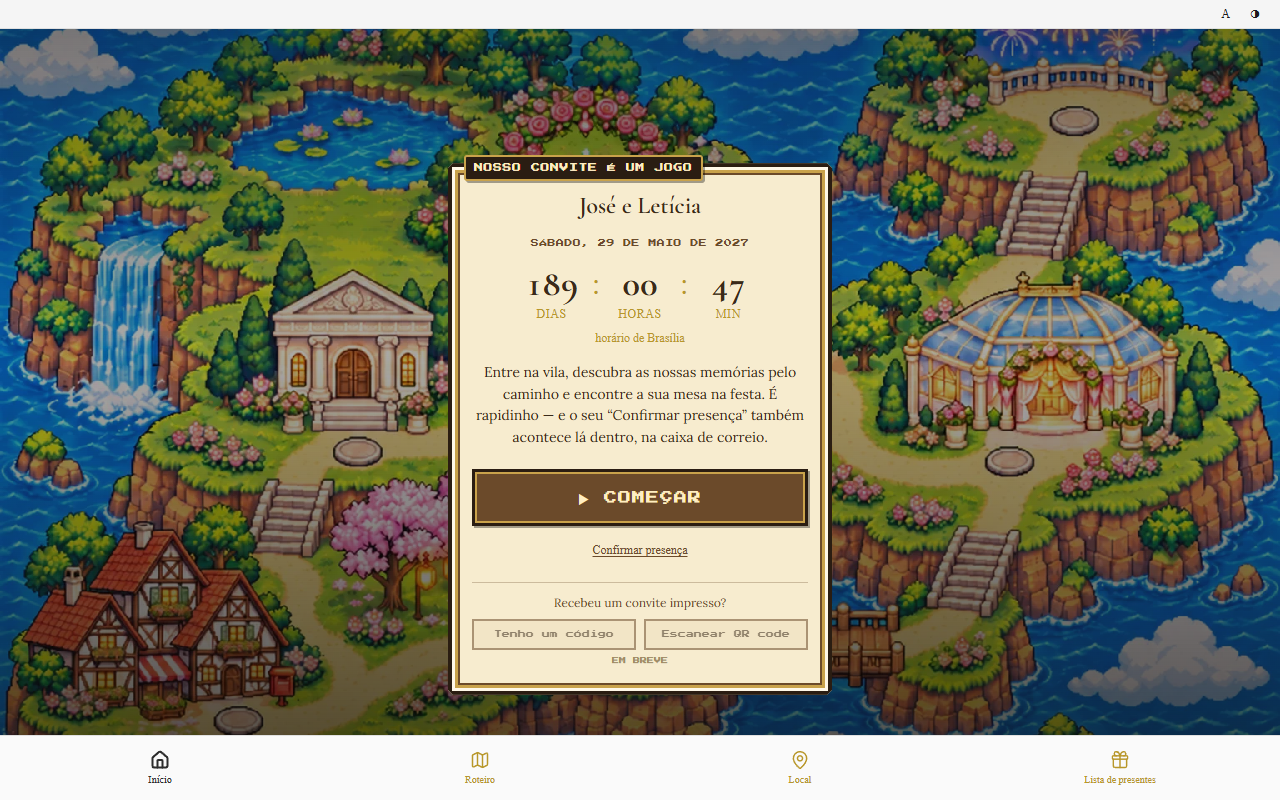
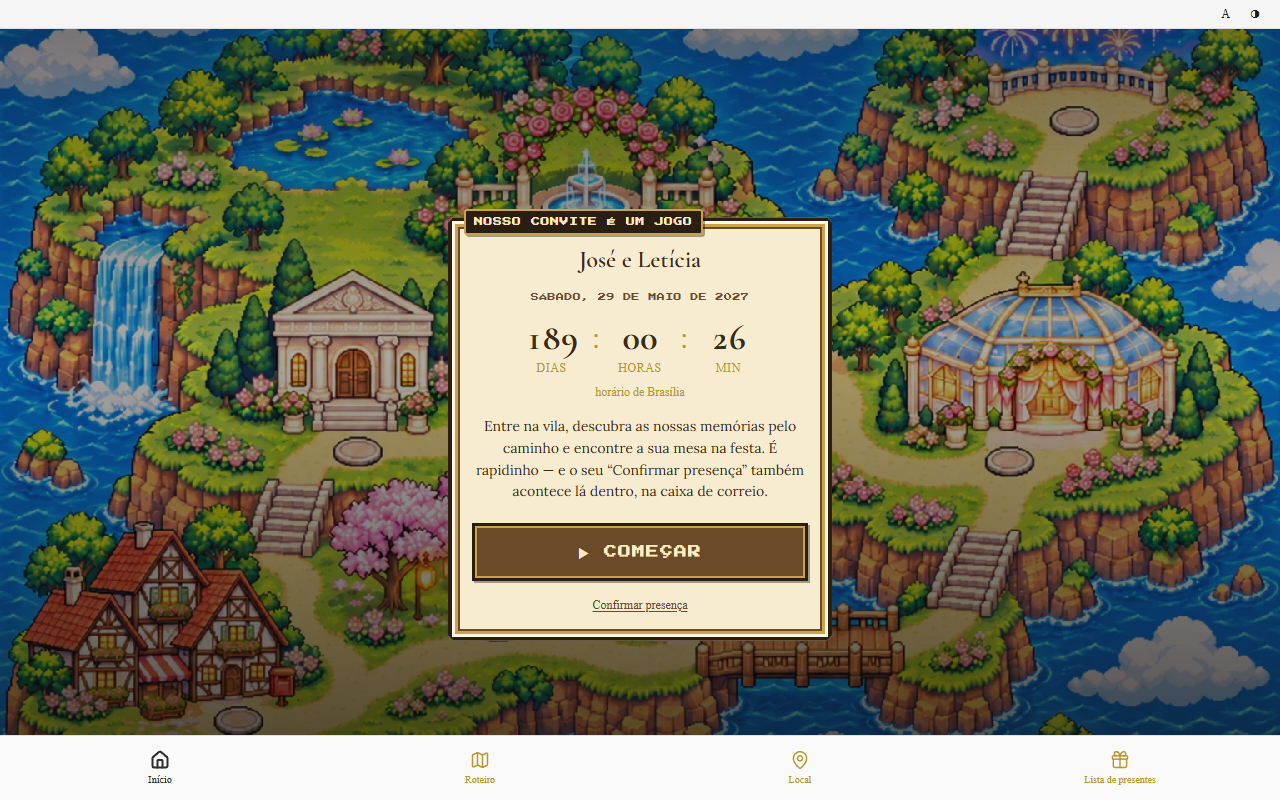
fix(convite): esconder bloco de convite impresso com a flag desligada (item 58)
Enquanto INVITE_CODES_ENABLED=false, o bloco "Recebeu um convite impresso?" fica
ESCONDIDO por inteiro (nem botões desabilitados nem "EM BREVE"): permanece só no
código, atrás da flag, pronto pra ligar no S4. A abertura termina em "Confirmar
presença". Screenshots 427 e 1280 atualizados.

Changed region(s): [[0.3438, 0.1875, 0.6562, 0.875]]

diff --git a/src/components/guest/game-opening.tsx b/src/components/guest/game-opening.tsx
@@ -162,46 +162,42 @@ export function GameOpening({
               </Link>
 
               {/* ── Lugar previsto para os botões do convite impresso (S4) ──
-                  Desabilitados até docs/IDEIA-QRCODES-CONVITE.md virar código.
-                  INVITE_CODES_ENABLED controla o estado (handlers no S4). */}
-              <div
-                className="mt-2 w-full border-t pt-3"
-                style={{ borderColor: "rgba(107,74,42,0.3)" }}
-              >
-                <p
-                  className="mb-2 text-xs"
-                  style={{ color: GBA.brown, fontFamily: "var(--font-lora), Georgia, serif" }}
+                  Bloco INTEIRO escondido enquanto a flag está desligada (não
+                  mostra botões nem "EM BREVE"): fica só no código, pronto para
+                  quando ligarmos INVITE_CODES_ENABLED no S4 e plugarmos os
+                  handlers. Ver docs/IDEIA-QRCODES-CONVITE.md. */}
+              {INVITE_CODES_ENABLED && (
+                <div
+                  className="mt-2 w-full border-t pt-3"
+                  style={{ borderColor: "rgba(107,74,42,0.3)" }}
                 >
-                  Recebeu um convite impresso?
-                </p>
-                <div className="grid grid-cols-2 gap-2">
-                  {(["Tenho um código", "Escanear QR code"] as const).map((label) => (
-                    <button
-                      key={label}
-                      type="button"
-                      disabled={!INVITE_CODES_ENABLED}
-                      aria-disabled={!INVITE_CODES_ENABLED}
-                      title={INVITE_CODES_ENABLED ? undefined : "Em breve"}
-                      className="flex items-center justify-center px-2 py-2 text-xs disabled:cursor-not-allowed disabled:opacity-55"
-                      style={{
-                        fontFamily: PIXEL,
-                        fontSize: "8px",
-                        lineHeight: 1.4,
-                        color: GBA.text,
-                        background: "#efe0bf",
-                        border: `2px solid ${GBA.brown}`,
-                      }}
-                    >
-                      {label}
-                    </button>
-                  ))}
-                </div>
-                {!INVITE_CODES_ENABLED && (
-                  <p className="mt-1.5 text-center" style={{ fontFamily: PIXEL, fontSize: "7px", color: "#a08a63" }}>
-                    EM BREVE
+                  <p
+                    className="mb-2 text-xs"
+                    style={{ color: GBA.brown, fontFamily: "var(--font-lora), Georgia, serif" }}
+                  >
+                    Recebeu um convite impresso?
                   </p>
-                )}
-              </div>
+                  <div className="grid grid-cols-2 gap-2">
+                    {(["Tenho um código", "Escanear QR code"] as const).map((label) => (
+                      <button
+                        key={label}
+                        type="button"
+                        className="flex items-center justify-center px-2 py-2 text-xs"
+                        style={{
+                          fontFamily: PIXEL,
+                          fontSize: "8px",
+                          lineHeight: 1.4,
+                          color: GBA.text,
+                          background: "#efe0bf",
+                          border: `2px solid ${GBA.brown}`,
+                        }}
+                      >
+                        {label}
+                      </button>
+                    ))}
+                  </div>
+                </div>
+              )}
             </div>
           </div>
         </div>
